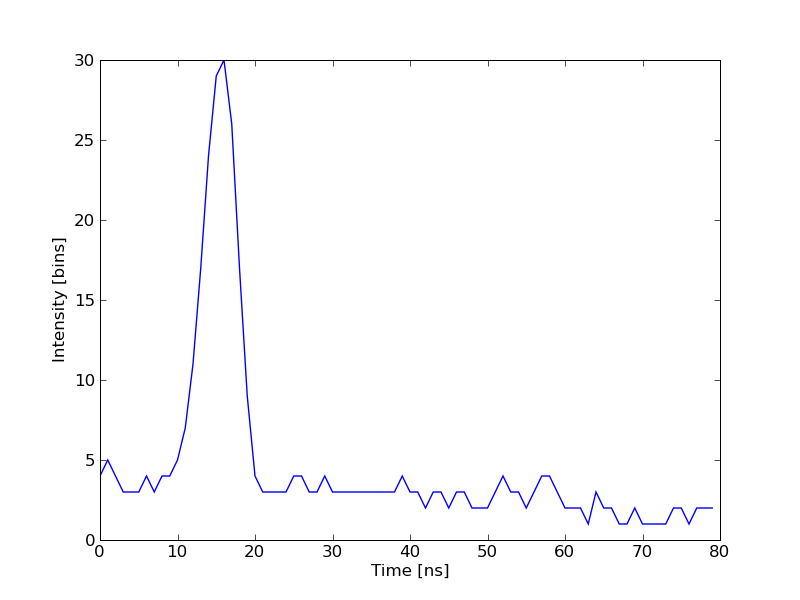
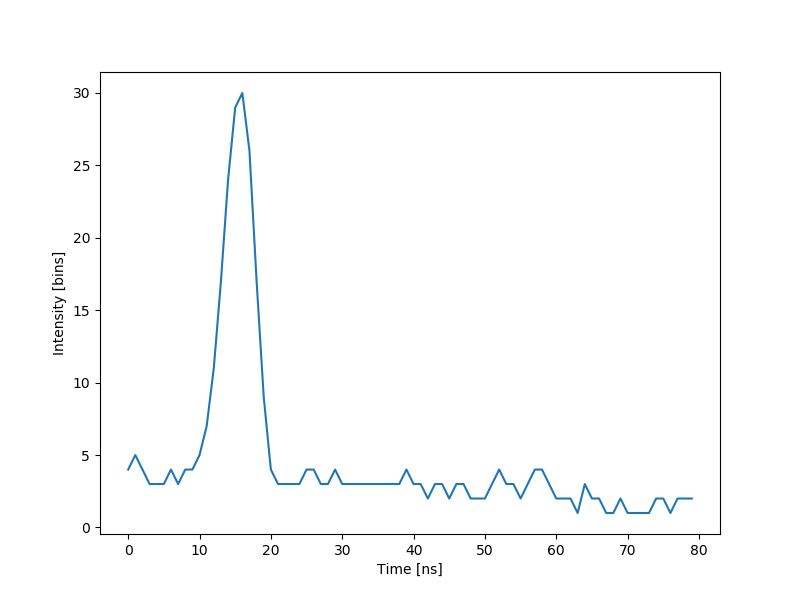
Consistant styling for plots. Edited example code to reflect style changes.

diff --git a/intro/summary-exercises/optimize-fit.rst b/intro/summary-exercises/optimize-fit.rst
@@ -56,8 +56,12 @@ and visualize it::
 
     >>> import matplotlib.pyplot as plt
     >>> t = np.arange(len(waveform_1))
-    >>> plt.plot(t, waveform_1) #doctest: +ELLIPSIS
+
+    >>> fig, ax = plt.subplots(figsize=(8, 6))
+    >>> ax.plot(t, waveform_1, #doctest: +ELLIPSIS
     [<matplotlib.lines.Line2D object at ...>]
+    >>> ax.set_xlabel('Time [ns]')
+    >>> ax.set_ylabel('Intensity [bins]')
     >>> plt.show()
 
 .. image:: waveform_1.png
@@ -134,9 +138,12 @@ following arguments:
 
 And visualize the solution::
 
-    >>> plt.plot(t, waveform_1, t, model(t, x)) #doctest: +ELLIPSIS
+    >>> fig, ax = plt.subplots(figsize=(8, 6))
+    >>> ax.plot(t, waveform_1, t, model(t, x)) #doctest: +ELLIPSIS
     [<matplotlib.lines.Line2D object at ...>, <matplotlib.lines.Line2D object at ...>]
-    >>> plt.legend(['waveform', 'model']) #doctest: +ELLIPSIS
+    >>> ax.set_xlabel('Time [ns]')
+    >>> ax.set_ylabel('Intensity [bins]')
+    >>> plt.legend(['Waveform', 'Model']) #doctest: +ELLIPSIS
     <matplotlib.legend.Legend object at ...>
     >>> plt.show()
 
